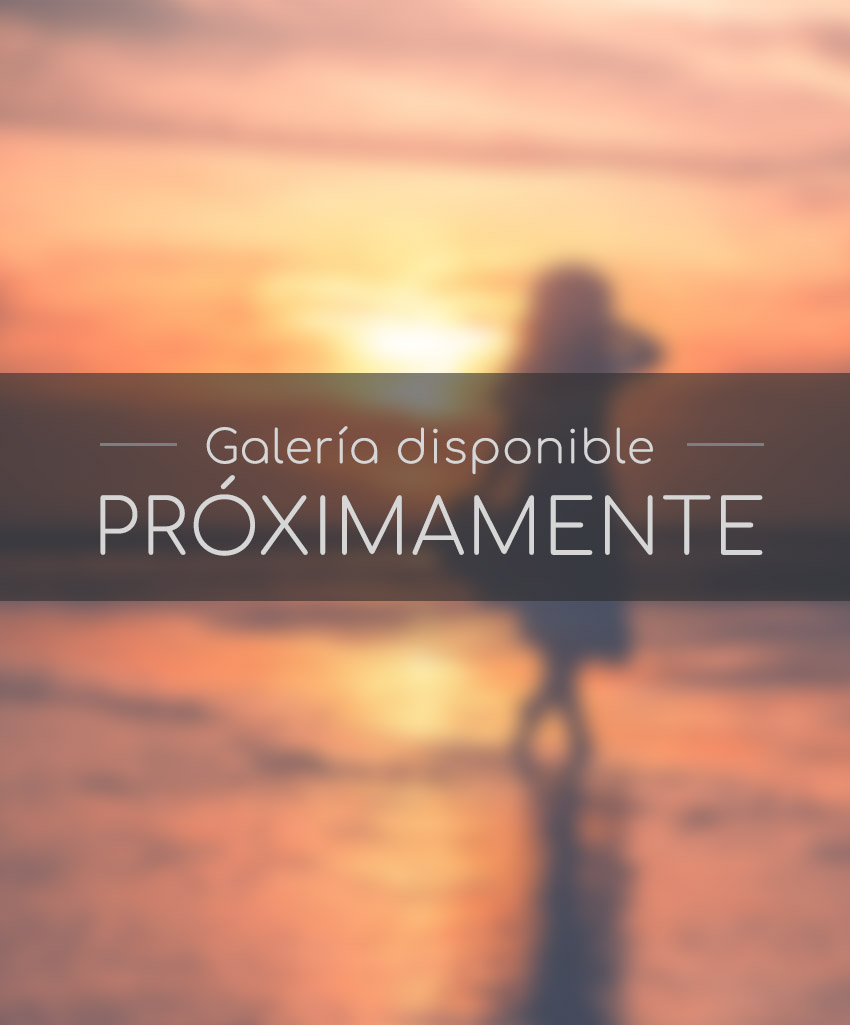
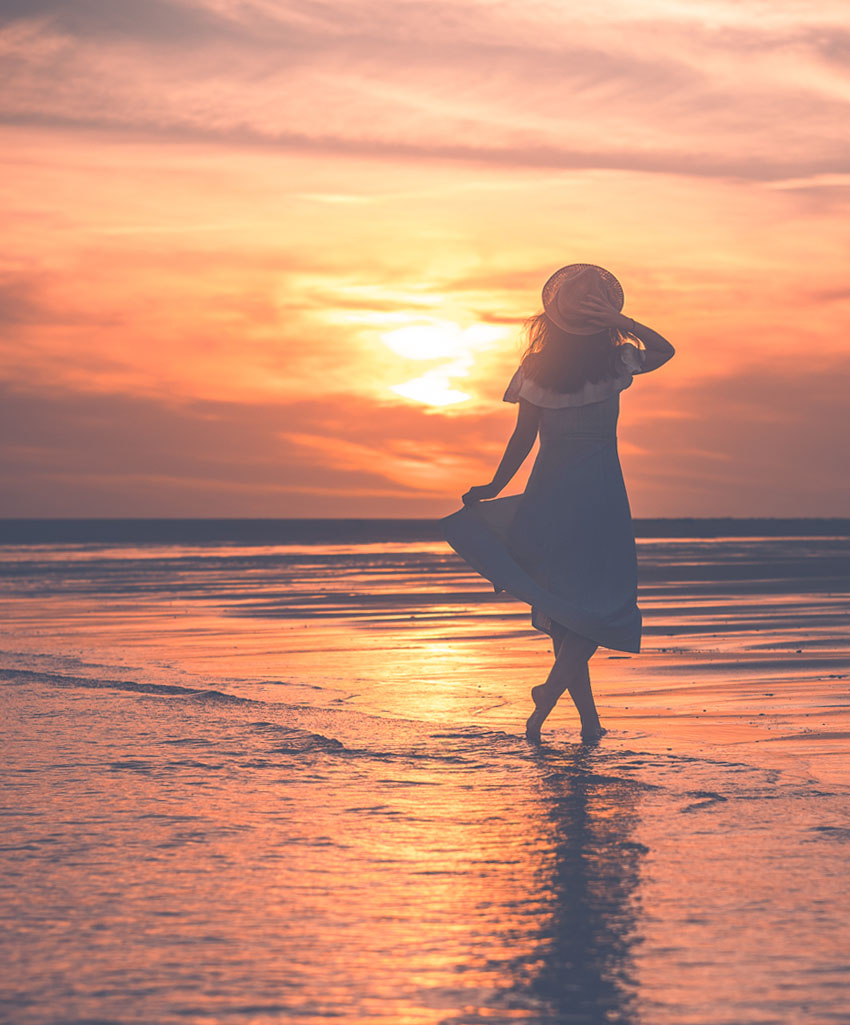
cine

diff --git a/index.html b/index.html
@@ -264,9 +264,9 @@
         </div>
       </a>
 
-<a href="/#" class="category-card cine-card group relative aspect-[4/5] rounded-3xl overflow-hidden border border-white/10">
+<a href="/cine" class="category-card cine-card group relative aspect-[4/5] rounded-3xl overflow-hidden border border-white/10">
   <div class="card-img-container">
-    <img src="img/cine.webp" alt="Fotografía formato cine" class="transition-transform duration-700 group-hover:scale-110" />
+    <img src="img/cine.jpg" alt="Fotografía formato cine" class="transition-transform duration-700 group-hover:scale-110" />
   </div>
   
   <div class="absolute inset-0 pointer-events-none">
@@ -278,7 +278,7 @@
   
   <div class="absolute bottom-8 left-8 z-30">
     <p class="text-2xl font-bold">Formato Cine</p>
-    <p class="text-primary text-sm opacity-0 group-hover:opacity-100 transition-opacity">PRÓXIMAMENTE</p>
+    <p class="text-primary text-sm opacity-0 group-hover:opacity-100 transition-opacity">Ver galería →</p>
   </div>
 </a>
 
